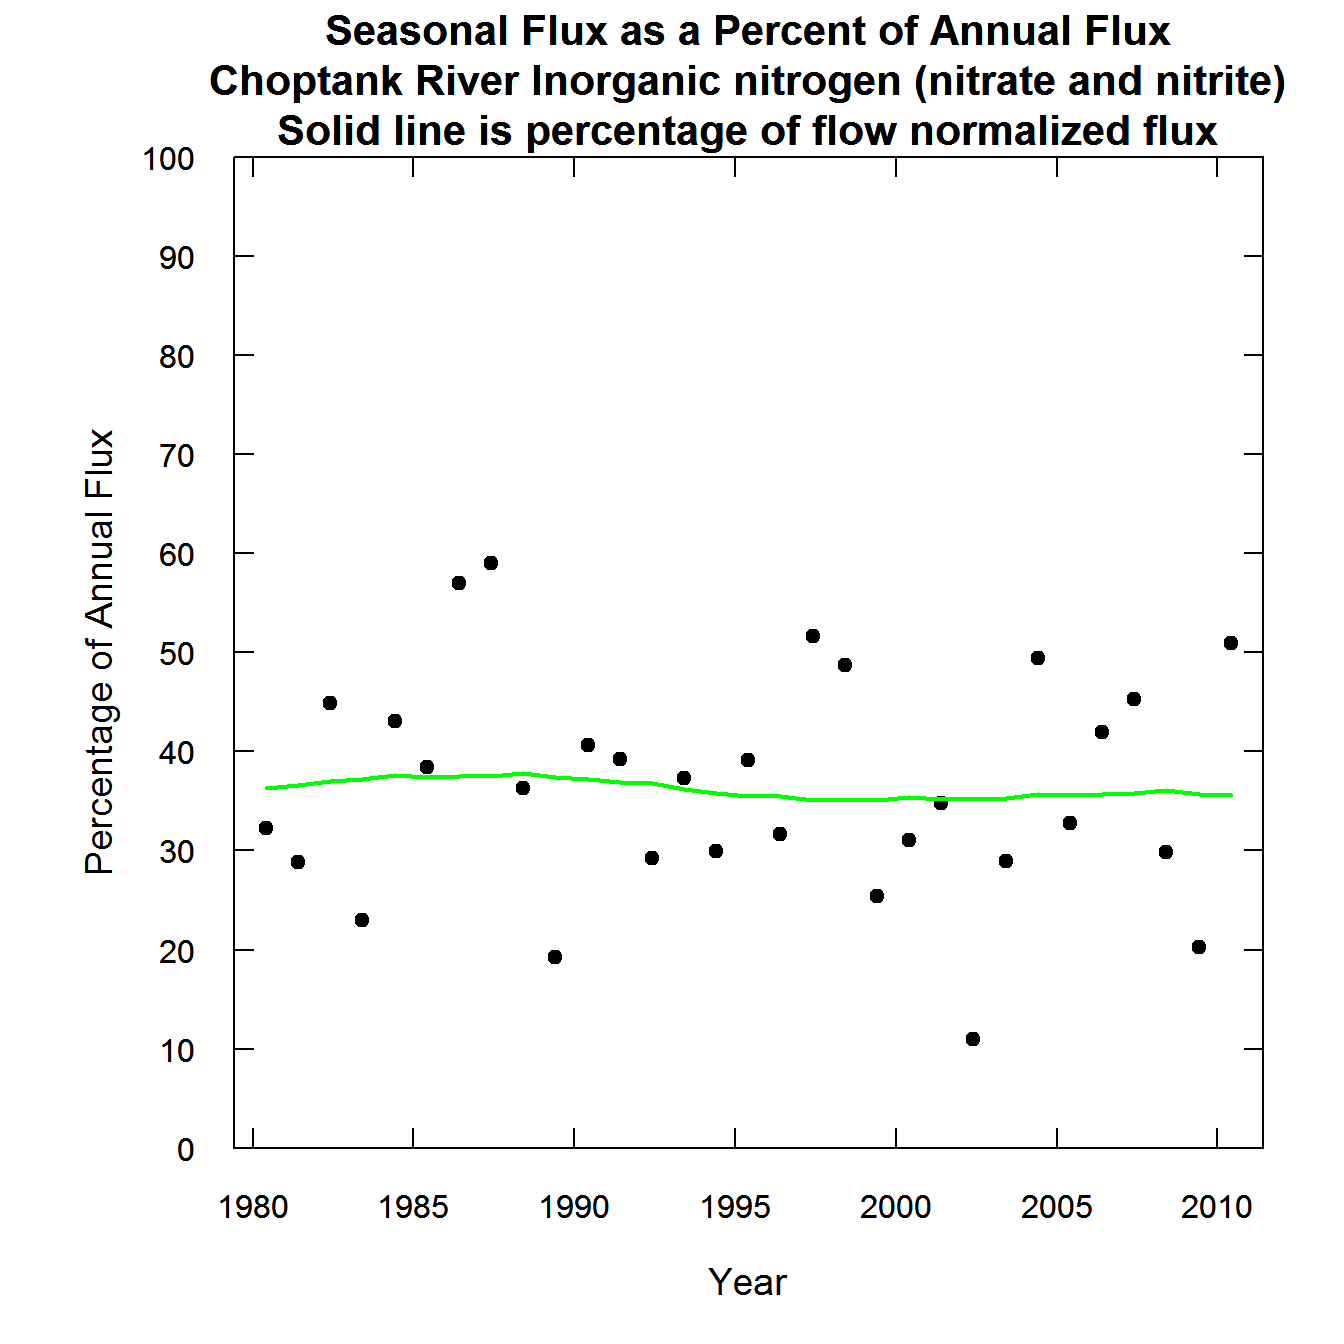
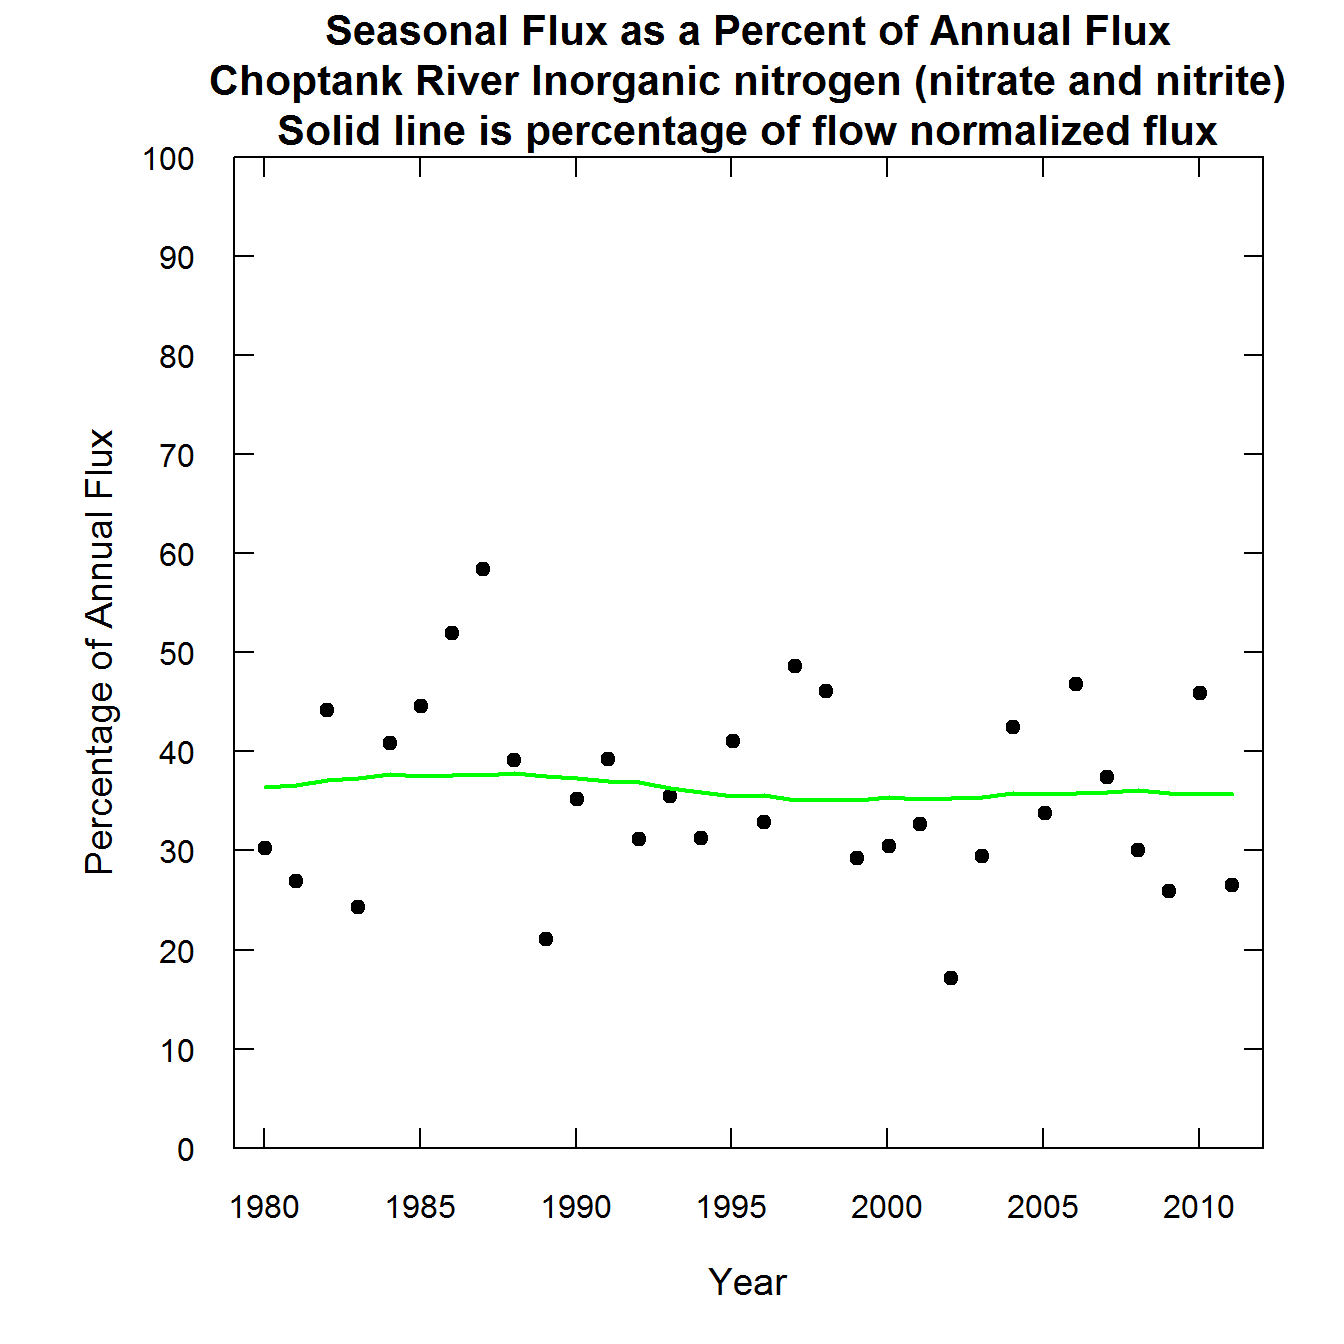
Bob's blog

diff --git a/content/SeasonalFraction.md b/content/SeasonalFraction.md
@@ -6,7 +6,7 @@ draft: True
 title: Seasonal Analysis in EGRET
 type: post
 categories: Data Science
-image: static/seasonal-analysis/unnamed-chunk-7-1.png
+image: static/seasonal-analysis/unnamed-chunk-3-1.png
 tags: 
   - R
   - EGRET
@@ -22,7 +22,7 @@ keywords:
 Introduction
 ============
 
-This ducument describes how to obtain information from (EGRET)\[<https://CRAN.R-project.org/package=EGRET>\] results that describe the seasonal distribution of fluxes. For example, we might want to know the fraction of the load that takes place in the winter season (say that is December, January, and February). We can look at it for a single year, we can look at averages of it over several years, or we can look at it in terms of flow normalized fluxes.
+This ducument describes how to obtain information from [EGRET](https://CRAN.R-project.org/package=EGRET) results that describe the seasonal distribution of fluxes. For example, we might want to know the fraction of the load that takes place in the winter season (say that is December, January, and February). We can look at it for a single year, we can look at averages of it over several years, or we can look at it in terms of flow normalized fluxes.
 
 Getting started
 ===============
@@ -32,73 +32,60 @@ First, you need to have loaded the `EGRET` package and you need to have run the 
 Next, you will need to read in two new function called `setupSeasons` and `setupYearsPlus` designed for this purpose. You can copy them from here and paste them into your workspace (all as a single copy and paste) or you can create an .R file from them that you will source each time you want to use them.
 
 ``` r
-setupSeasons <- function(localDaily, paLong, paStart) {
-    SeasonResults <- setupYearsPlus(localDaily, paLong = paLong, paStart = paStart)
-    AnnualResults <- setupYearsPlus(localDaily, paLong = 12, paStart = paStart)
-    numYears <- length(AnnualResults$DecYear)
-    divide <- 1e+06
-    DecYear <- AnnualResults$DecYear
-    Year <- trunc(DecYear)
-    FluxYear <- AnnualResults$Flux * AnnualResults$Counts/divide
-    FNFluxYear <- AnnualResults$FNFlux * AnnualResults$Counts/divide
-    FluxSeason <- SeasonResults$Flux[1:numYears] * SeasonResults$Counts[1:numYears]/divide
-    FNFluxSeason <- SeasonResults$FNFlux[1:numYears] * SeasonResults$Counts[1:numYears]/divide
-    pctFlux <- ifelse(is.na(FluxYear) | is.na(FluxSeason), NA, 100 * FluxSeason/FluxYear)
-    pctFNFlux <- ifelse(is.na(FNFluxYear) | is.na(FNFluxSeason), NA, 100 * FNFluxSeason/FNFluxYear)
-    seasonPctResults <- data.frame(DecYear, Year, FluxYear, FNFluxYear, FluxSeason, 
-        FNFluxSeason, pctFlux, pctFNFlux)
-    seasonLong <- rep(paLong, numYears)
-    seasonStart <- rep(paStart, numYears)
-    seasonPctResults <- data.frame(seasonPctResults, seasonLong, seasonStart)
-    return(seasonPctResults)
+setupSeasons <- function(localDaily, paLong, paStart){
+  SeasonResults <- setupYearsPlus(localDaily, paLong = paLong, paStart = paStart)
+  AnnualResults <- setupYearsPlus(localDaily, paLong = 12, paStart = paStart)
+  
+  divideBy <- 1000000
+  
+  annualPctResults <- AnnualResults %>%
+    mutate(FluxYear = Flux*Counts/divideBy,
+           FNFluxYear = FNFlux*Counts/divideBy) %>%
+    select(FluxYear, FNFluxYear)
+  
+  seasonPctResults <- SeasonResults %>%
+    mutate(FluxSeason = Flux*Counts/divideBy,
+           FNFluxSeason = FNFlux*Counts/divideBy) %>%
+    bind_cols(annualPctResults) %>%
+    mutate(pctFlux = 100*FluxSeason/FluxYear,
+           pctFNFlux = 100*FNFluxSeason/FNFluxYear,
+           Year = trunc(DecYear)) %>%
+    select(-Q, -Conc, -Flux, -FNFlux, -FNConc, -Counts) %>%
+    rename(seasonStart = paStart,
+           seasonLong = paLong)
+  
+  return(seasonPctResults)
 }
-setupYearsPlus <- function(localDaily, paLong = 12, paStart = 10) {
-    # This is an augmented version of setupYears that also returns the number of
-    # good days in each year or season
-    
-    numDays <- length(localDaily$MonthSeq)
-    firstMonthSeq <- localDaily$MonthSeq[1]
-    lastMonthSeq <- localDaily$MonthSeq[numDays]
-    Starts <- seq(paStart, lastMonthSeq, 12)
-    Ends <- Starts + paLong - 1
-    StartEndSeq <- data.frame(Starts, Ends)
-    StartEndSeq <- StartEndSeq[(StartEndSeq$Starts >= firstMonthSeq) & (StartEndSeq$Ends <= 
-        lastMonthSeq), ]
-    firstMonth <- StartEndSeq[1, 1]
-    numYears <- length(StartEndSeq$Starts)
-    DecYear <- rep(NA, numYears)
-    Q <- rep(NA, numYears)
-    Conc <- rep(NA, numYears)
-    Flux <- rep(NA, numYears)
-    FNConc <- rep(NA, numYears)
-    FNFlux <- rep(NA, numYears)
-    Counts <- rep(NA, numYears)
-    for (i in 1:numYears) {
-        startMonth <- (i - 1) * 12 + firstMonth
-        stopMonth <- startMonth + paLong - 1
-        DailyYear <- localDaily[which(localDaily$MonthSeq %in% startMonth:stopMonth), 
-            ]
-        counter <- ifelse(is.na(DailyYear$ConcDay), 0, 1)
-        if (length(counter) > 0) {
-            good <- (sum(counter) > 25)
-        } else {
-            good <- FALSE
-        }
-        DecYear[i] <- mean(DailyYear$DecYear)
-        Q[i] <- mean(DailyYear$Q)
-        if (good) {
-            Conc[i] <- mean(DailyYear$ConcDay, na.rm = TRUE)
-            Flux[i] <- mean(DailyYear$FluxDay, na.rm = TRUE)
-            FNConc[i] <- mean(DailyYear$FNConc, na.rm = TRUE)
-            FNFlux[i] <- mean(DailyYear$FNFlux, na.rm = TRUE)
-            Counts[i] <- sum(counter)
-        }
-    }
-    PeriodStart <- rep(paStart, numYears)
-    PeriodLong <- rep(paLong, numYears)
-    AnnualResults <- data.frame(DecYear, Q, Conc, Flux, FNConc, FNFlux, PeriodLong, 
-        PeriodStart, Counts)
-    return(AnnualResults)
+
+library(dplyr)
+
+setupYearsPlus <- function (localDaily, paLong = 12, paStart = 10){
+  AnnualResults <- setupYears(localDaily = localDaily, paLong = paLong, paStart = paStart)
+  
+  monthsToUse <- seq(paStart, length=paLong)
+  monthsToUse[monthsToUse > 12] <- monthsToUse[monthsToUse > 12] - 12
+  
+  waterYear <- paLong == 12 & paStart == 10
+  
+  AnnualResults <- localDaily %>%
+    mutate(waterYear = as.integer(format(Date, "%Y"))) %>%
+    mutate(waterYear = ifelse(Month >= 10, waterYear + 1, waterYear)) %>%
+    filter(Month %in% monthsToUse) %>%
+    mutate(Year = ifelse(waterYear, waterYear, as.integer(format(Date, "%Y")))) %>%
+    group_by(Year) %>%
+      summarise(DecYear = mean(DecYear, na.rm = TRUE),
+                Q = mean(Q, na.rm = TRUE),
+                Conc = mean(ConcDay, na.rm = TRUE),
+                Flux = mean(FluxDay, na.rm = TRUE),
+                FNConc = mean(FNConc, na.rm = TRUE),
+                FNFlux = mean(FNFlux, na.rm = TRUE),
+                Counts = sum(!is.na(ConcDay))) %>%
+    mutate(paLong = paLong,
+           paStart = paStart) %>%
+    select(-Year)
+      
+  return(AnnualResults)
+  
 }
 ```
 
@@ -187,10 +174,15 @@ xlim <- c(seasonPctResults$DecYear[1]-1,seasonPctResults$DecYear[nYears]+1)
 xTicks <- pretty(xlim)
 ylim <- c(0,100)
 yTicks <- seq(0,100,10)
-plotTitle = paste("Seasonal Flux as a Percent of Annual Flux\n",eList$INFO$shortName,eList$INFO$paramShortName,"\nSolid line is percentage of flow normalized flux") 
-genericEGRETDotPlot(seasonPctResults$DecYear,seasonPctResults$pctFlux,xlim=xlim,ylim=ylim,xTicks=xTicks,yTicks=yTicks,xaxs="i",yaxs="i",xlab="Year",ylab="Percentage of Annual Flux",plotTitle=plotTitle,xDate=TRUE,cex=1.5)
-par(new=TRUE)
-genericEGRETDotPlot(seasonPctResults$DecYear,seasonPctResults$pctFNFlux,xlim=xlim,ylim=ylim,xTicks=xTicks,yTicks=yTicks,xaxs="i",yaxs="i",xlab="",ylab="",plotTitle=plotTitle,xDate=TRUE,cex=1.5,type="l",col="green",lwd=2)
+plotTitle = paste("Seasonal Flux as a Percent of Annual Flux\n",
+                  eList$INFO$shortName, eList$INFO$paramShortName,
+                  "\nSolid line is percentage of flow normalized flux") 
+genericEGRETDotPlot(seasonPctResults$DecYear,seasonPctResults$pctFlux,
+                    xlim=xlim, ylim=ylim,
+                    xTicks=xTicks,yTicks=yTicks,
+                    xlab="Year",ylab="Percentage of Annual Flux",
+                    plotTitle=plotTitle,xDate=TRUE,cex=1.5)
+lines(seasonPctResults$DecYear,seasonPctResults$pctFNFlux,col="green",lwd=2)
 ```
 
 <img src='/static/seasonal-analysis/unnamed-chunk-3-1.png'/ title='TODO' alt='TODO' class=''/>
@@ -202,23 +194,26 @@ Computing averages over a period of years
 
 Let's say we wanted to answer the question, what percentage of the annual total flux moved in the winter season during the years 2000 through 2010. We can answer that question with a simple set of calculations.
 
--   First we need to look at the list of annual values that we printed out above and find the index numbers for the two years specified. The year 2000 is number 21 on the list and 2010 is number 31 on the list.
+-   Filter the data frame `seasonPctResults` for the years 2000 - 2010.
 
 -   Now we can compute the sum of the annual fluxs for those years and the sum of the seasonal fluxes for those years, and then get our answer by taking the ratio and multiplying by 100.
 
 ``` r
-sumYears <- sum(seasonPctResults$FluxYear[21:31])
+years00_10 <- filter(seasonPctResults, Year >= 2000) %>%
+  filter(Year <= 2010)
+
+sumYears <- sum(years00_10$FluxYear)
  
-sumSeasons <- sum(seasonPctResults$FluxSeason[21:31])
+sumSeasons <- sum(years00_10$FluxSeason)
 
 avePct <- 100 * sumSeasons / sumYears
 ```
 
-The total flux for all years in the period of interest in millions of kg is `sumYears` = 1.7297595.
+The total flux for all years in the period of interest in millions of kg is `sumYears` = 1.727799.
 
 The total seasonal flux for all years of the period of interest in millions of kg is `sumSeasons` = 0.6099614.
 
-The percentage of the total flux for the years 2000 through 2010 that was transported in the winter months is `avePct` = 35.2627852.
+The percentage of the total flux for the years 2000 through 2010 that was transported in the winter months is `avePct` = 35.302796.
 
 This can be determined for any set of years simply by changing the two numbers inside the brackets to the index numbers of the first and last years of interest.
 
